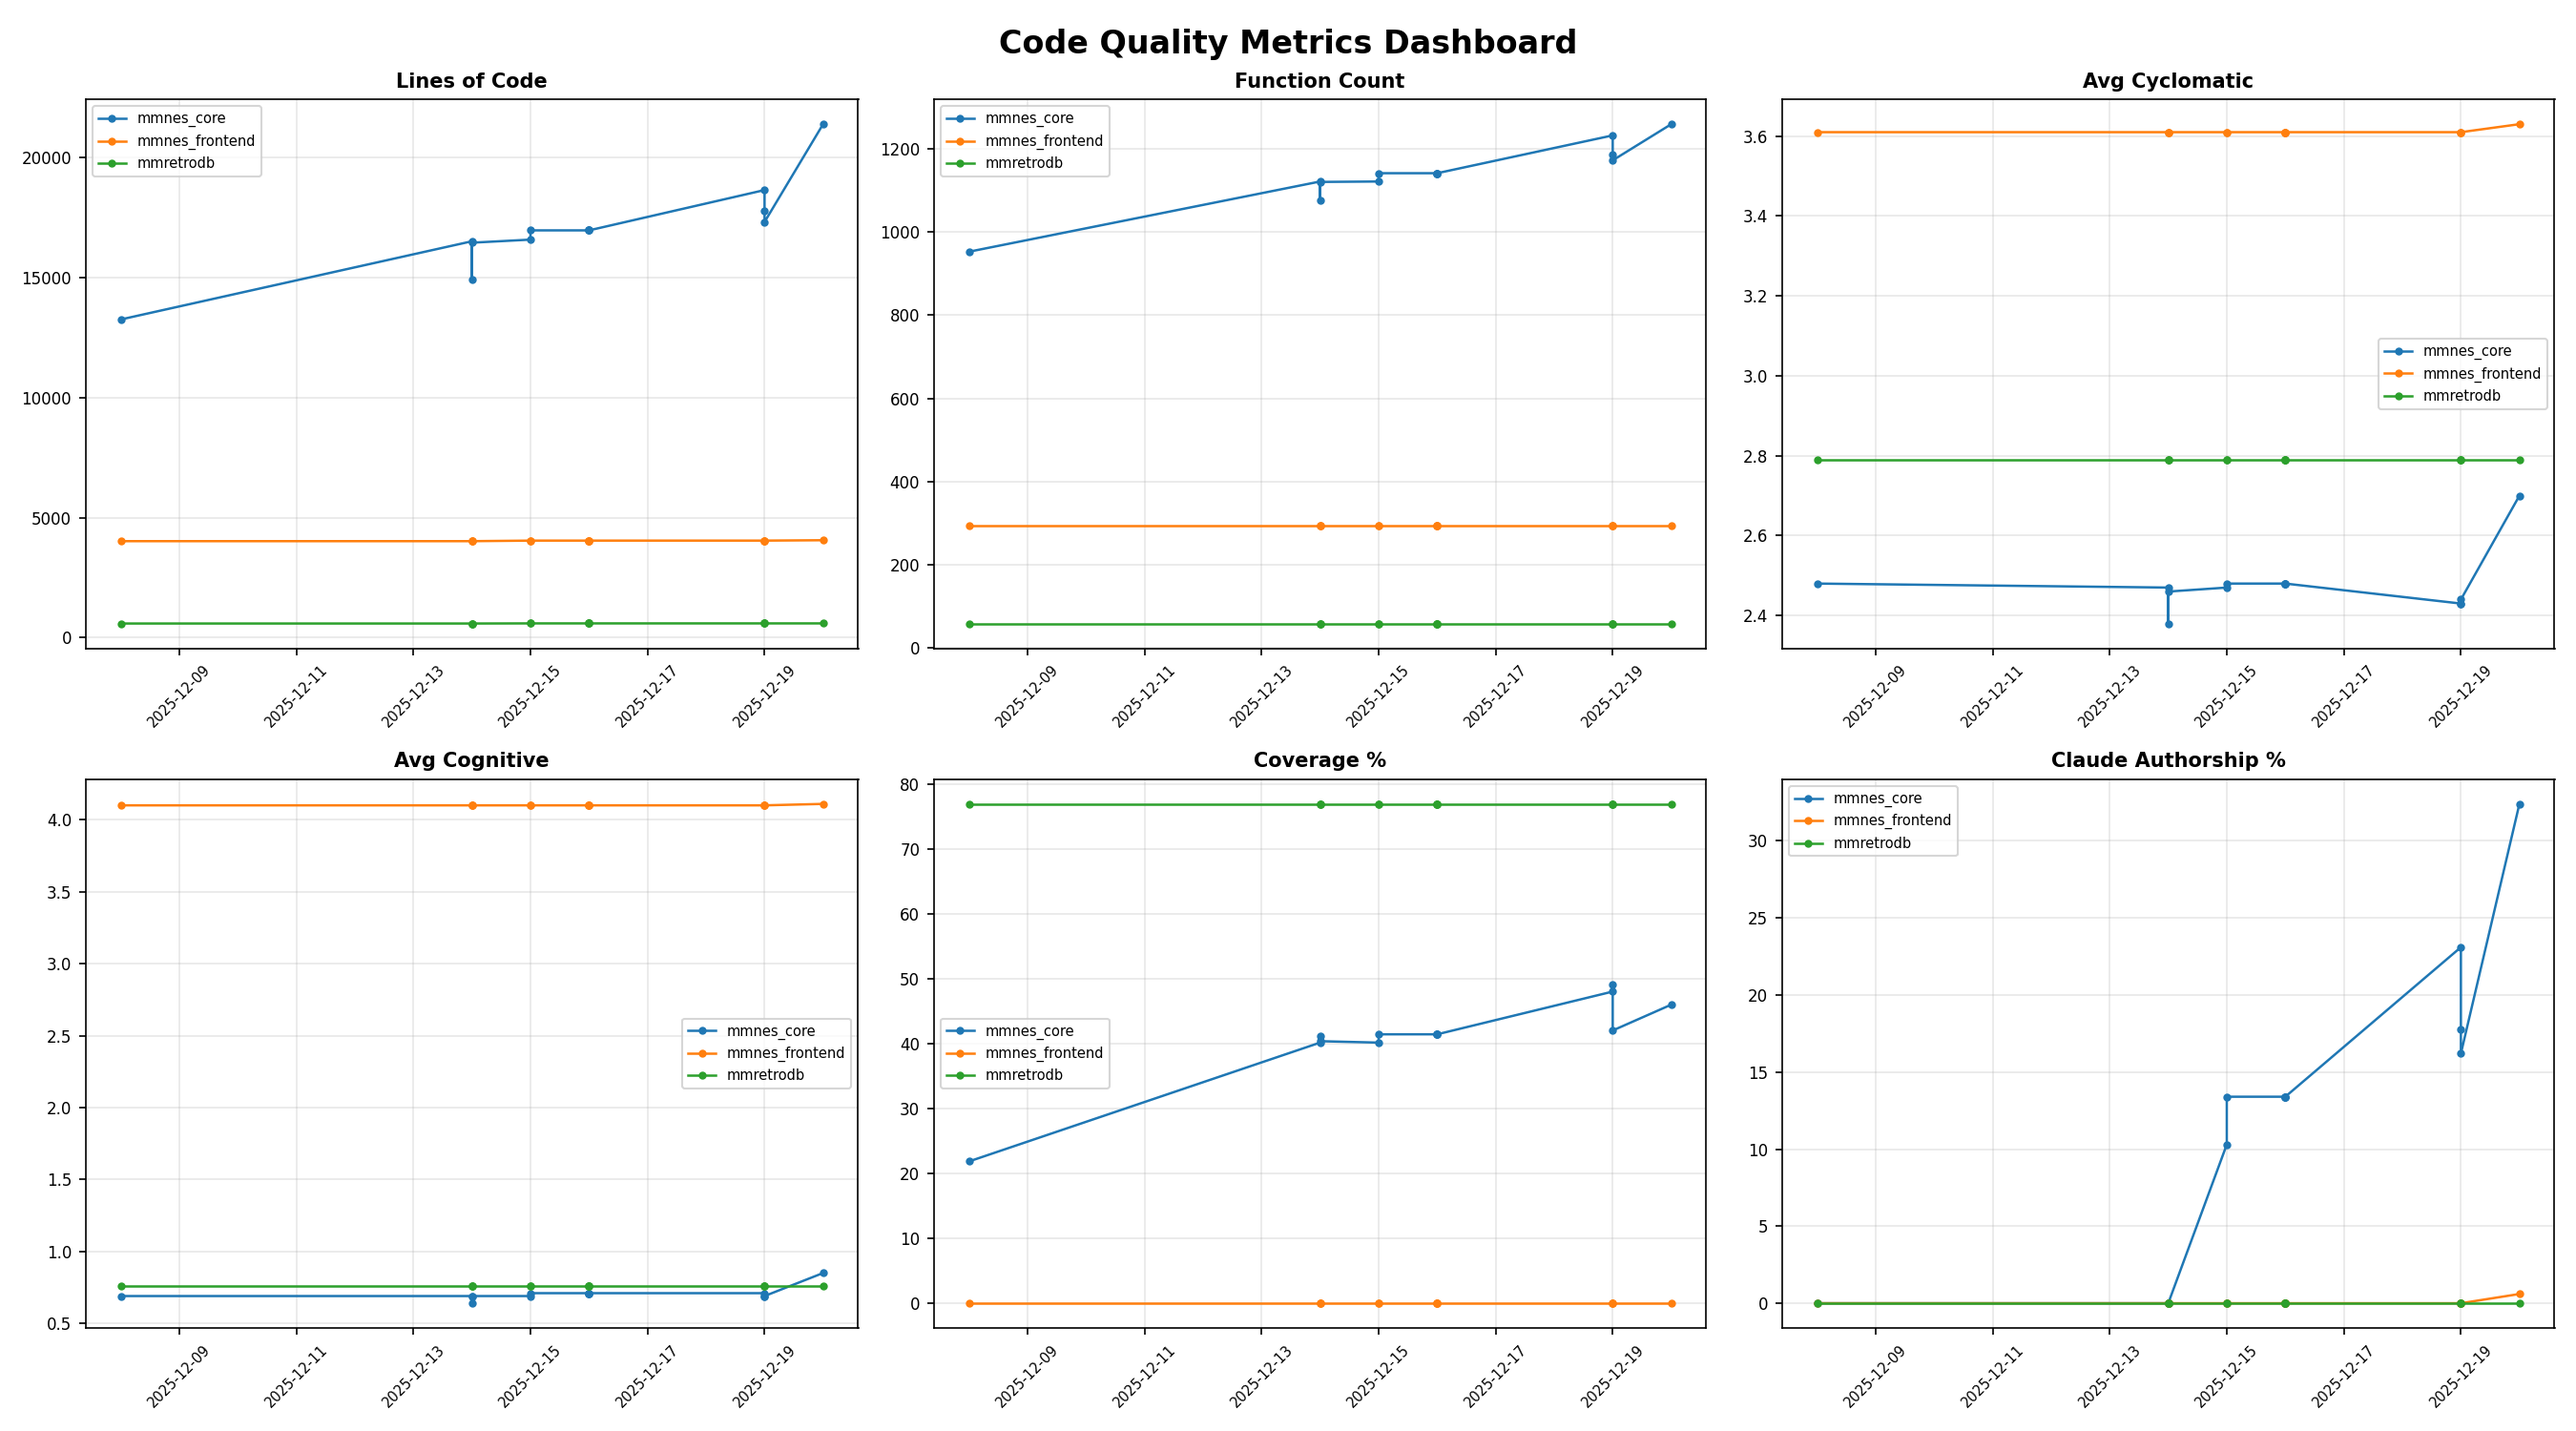
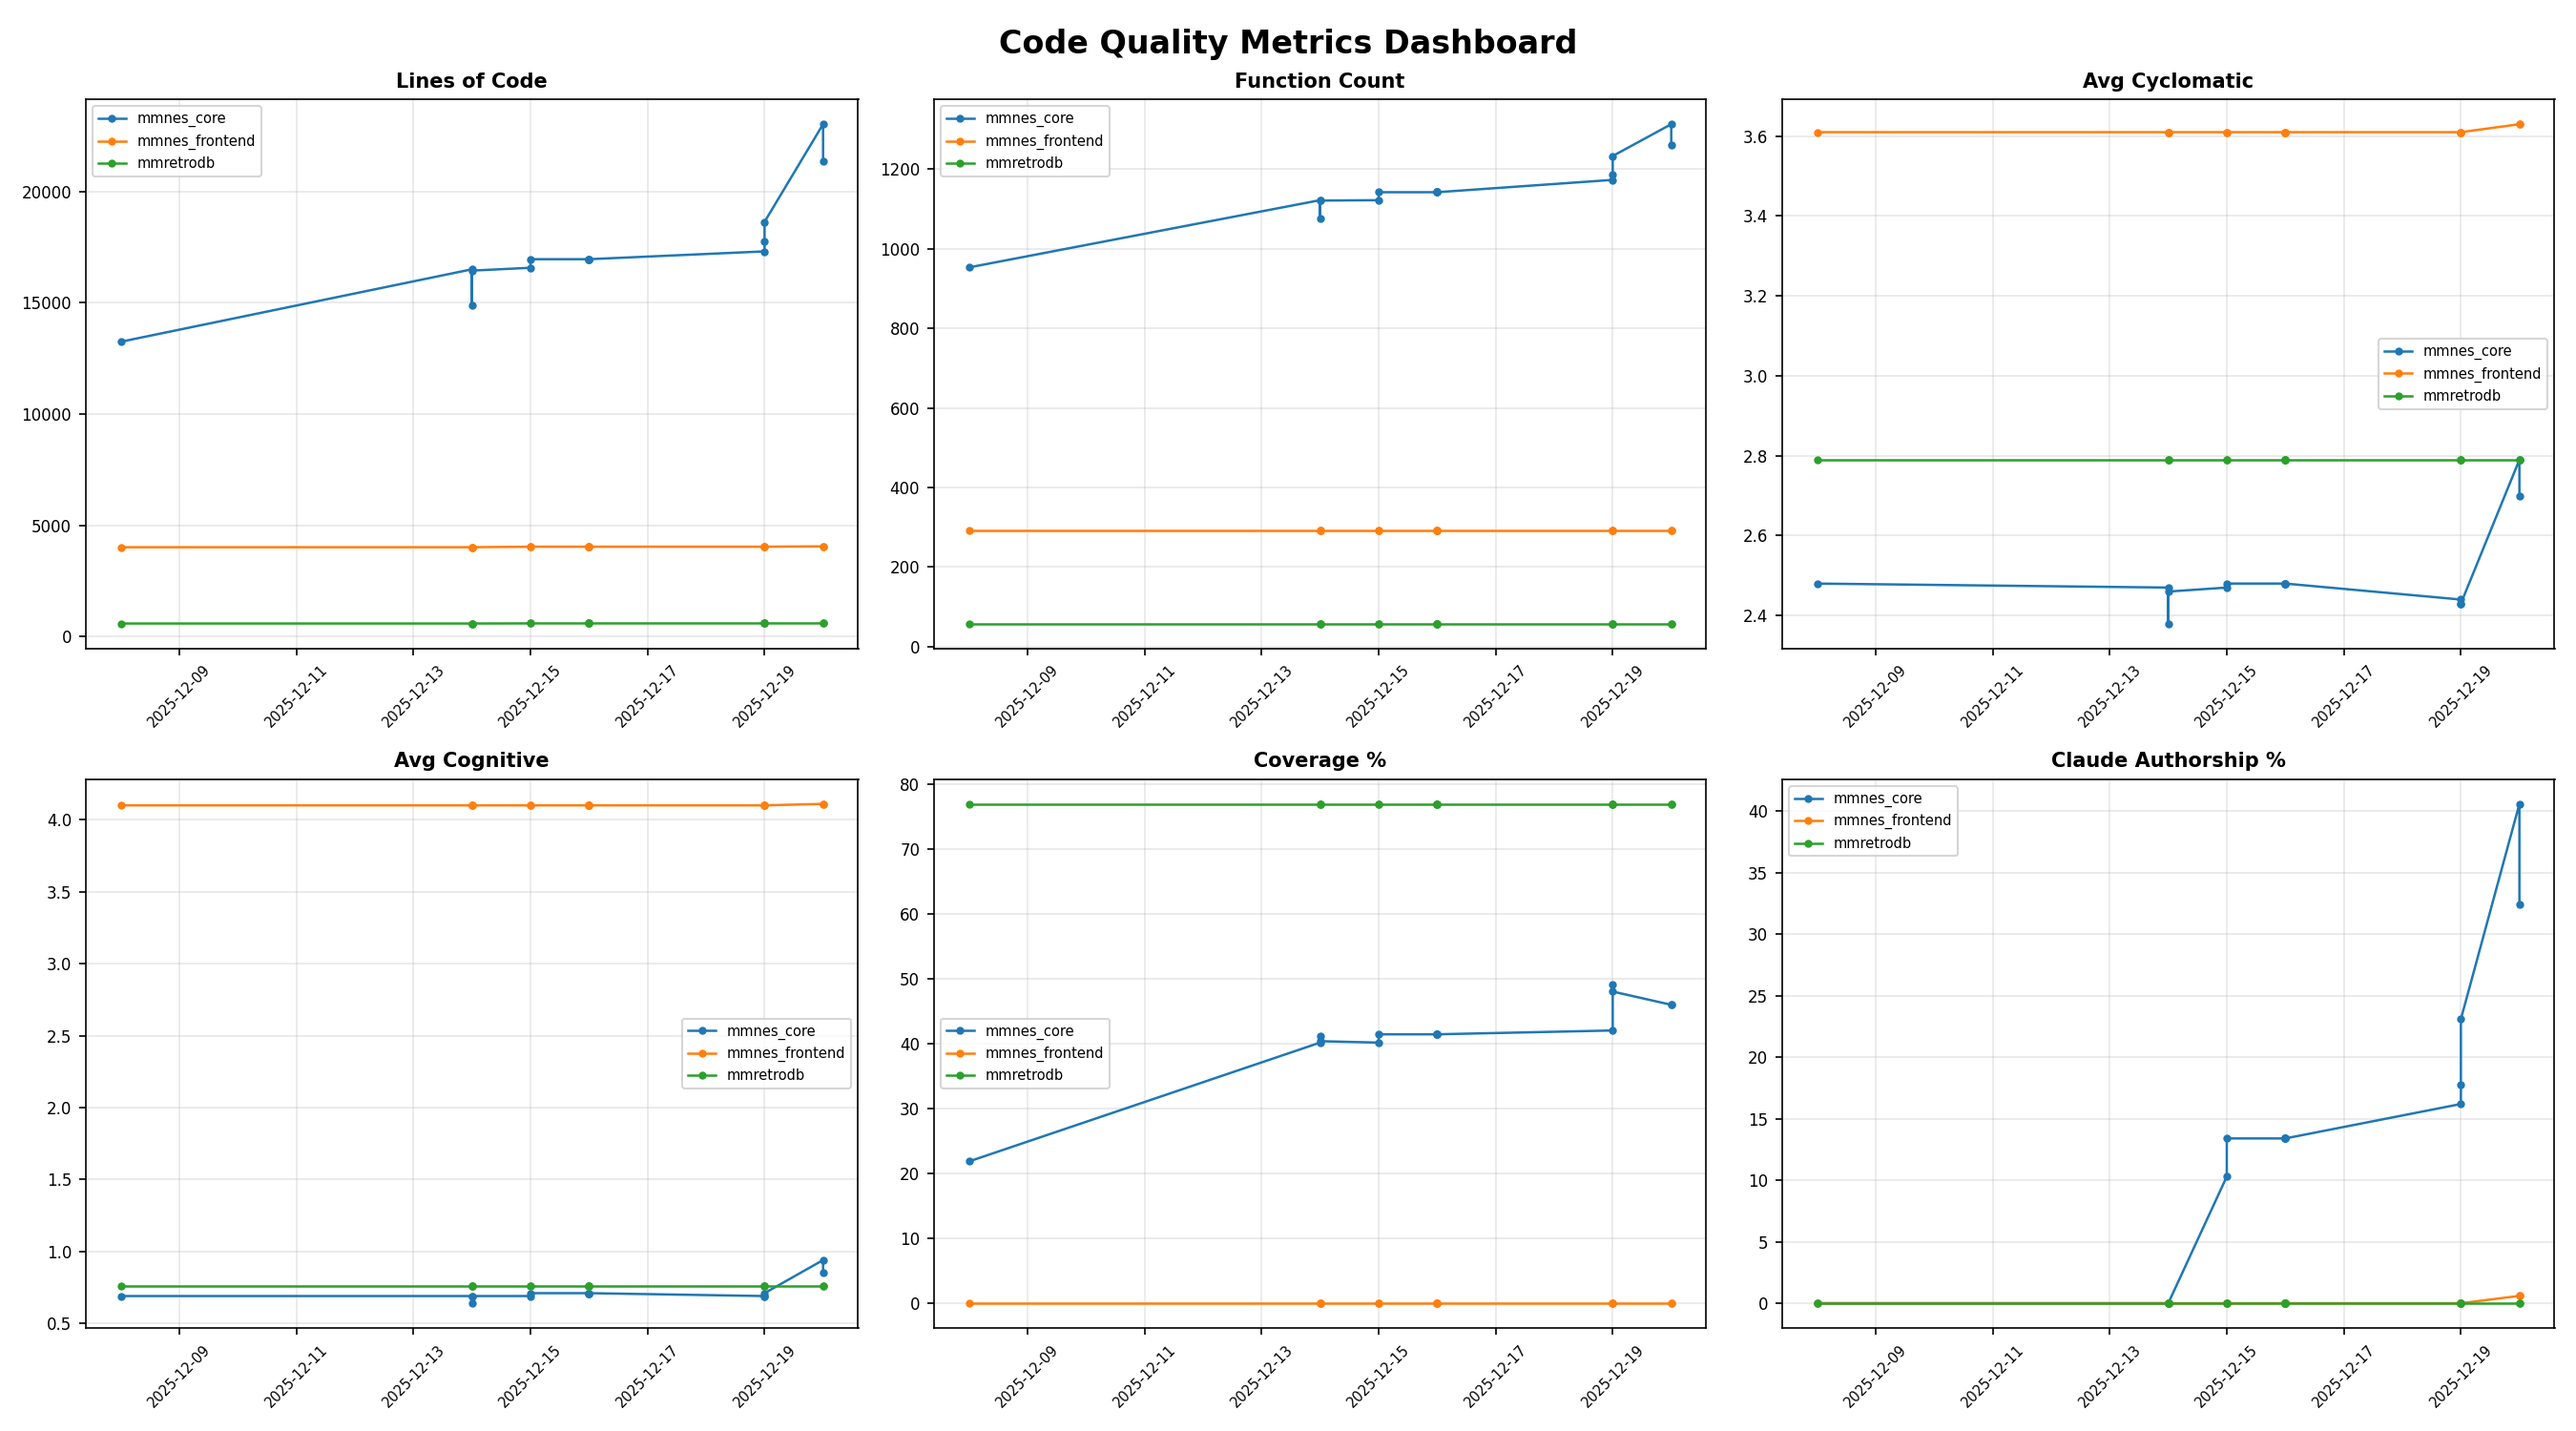
Update metrics data [skip ci]

diff --git a/metrics/data/METRICS_SUMMARY.md b/metrics/data/METRICS_SUMMARY.md
@@ -1,6 +1,6 @@
 # Code Quality Metrics Summary
 
-*Generated: 2025-12-20 09:56:47*
+*Generated: 2025-12-20 11:58:39*
 
 **Latest commit:** `f311087` on `main`
 
@@ -8,8 +8,8 @@
 
 | Crate | LOC | Functions | Avg Cyclo | Coverage | Human % | Claude % |
 |-------|-----|-----------|-----------|----------|---------|----------|
-| mmnes_frontend | 4059 | 293 | 3.6 | 0.0% | 99.4% | 0.6% |
 | mmnes_core | 21384 | 1260 | 2.7 | 46.0% | 67.6% | 32.4% |
+| mmnes_frontend | 4059 | 293 | 3.6 | 0.0% | 99.4% | 0.6% |
 | mmretrodb | 596 | 58 | 2.8 | 77.0% | 100.0% | 0.0% |
 
 ## Definitions
